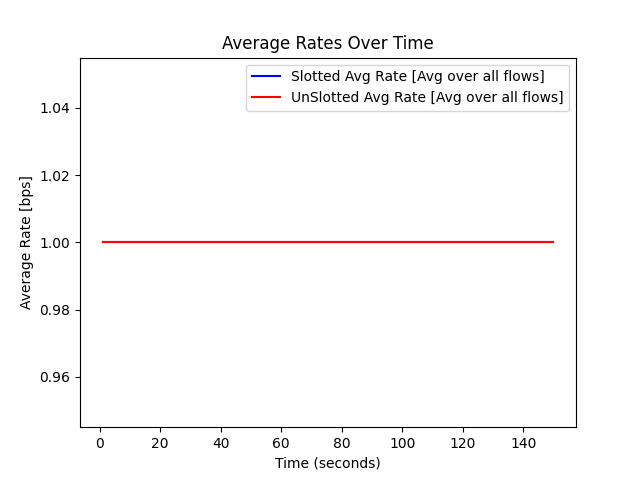
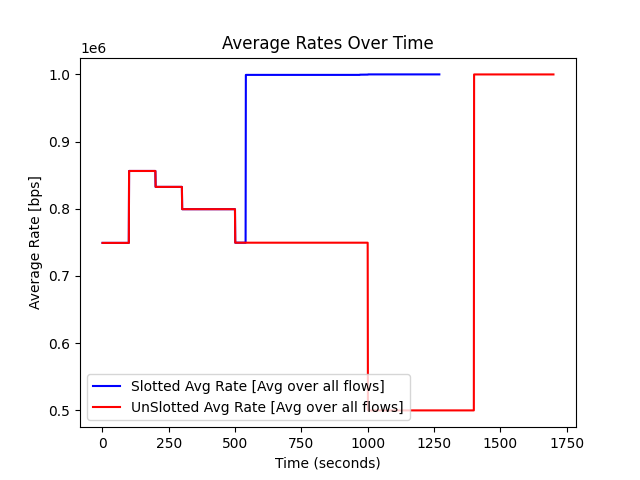
minors

diff --git a/DIAMOND/test/inference_vs_competitors_simple.py b/DIAMOND/test/inference_vs_competitors_simple.py
@@ -27,9 +27,9 @@ if __name__ == "__main__":
 
     # ------------------------------------------------------------------------
     Simulation_Time_Resolution = 1e-1       # miliseconds (i.e. each time step is a milisecond - this is the duration of each time step in [SEC])
-    BW_value_in_Hertz = 1#1e6                   # wanted BW in Hertz
-    slot_duration = 30                     # [SEC] 
-    Tot_num_of_timeslots = 5               # [num of time slots]
+    BW_value_in_Hertz = 1e6                   # wanted BW in Hertz
+    slot_duration = 60                     # [SEC] 
+    Tot_num_of_timeslots = 150               # [num of time slots]
     #------------------------------------------------------------------------
 
     # # number of nodes
@@ -72,9 +72,9 @@ if __name__ == "__main__":
     #      (0.1, 0), (0.1, 0.01), (0.1, 0.02),
     #      (0.2, 0), (0.2, 0.01), (0.2, 0.02)]
    
-    P = [(0, 0), (0, 100), (0, 200),
-         (100, 0), (100, 100), (100, 200),
-         (200, 0), (200, 100), (200, 200)]
+    P = [(0, 0), (0, 10), (0, 20),
+         (10, 0), (10, 10), (10, 20),
+         (20, 0), (20, 10), (20, 20)]
     
     # BW matrix
     C = BW_value_in_Hertz * np.ones((N, N)) * Simulation_Time_Resolution 
@@ -85,19 +85,19 @@ if __name__ == "__main__":
     action_size = 10                      #search space limitaions?
 
     # flow demands in KiloByte
-    F = [
-        {"source": 0, "destination": 8, "packets": 1000    , "time_constrain": 10 , 'flow_idx': 0 }  ]  
-    
     # F = [
-    #     #{"source": 0, "destination": 8, "packets": 1000    *1e6, "time_constrain": 10 , 'flow_idx': 0 }#,
-    #     # {"source": 0, "destination": 7, "packets": 1000    *1e6, "time_constrain": 10, 'flow_idx': 1}#,         #Packets [in Bits]
-    #     # {"source": 0, "destination": 6, "packets": 500  *1e6, "time_constrain": 10, 'flow_idx': 2},         #Packets [in Bits]
-    #     # {"source": 0, "destination": 5, "packets": 1000 *1e6, "time_constrain": 10, 'flow_idx': 3},
-    #     # {"source": 0, "destination": 4, "packets": 700  *1e6, "time_constrain": 10 , 'flow_idx': 4 },
-    #     # {"source": 0, "destination": 3, "packets": 300  *1e6, "time_constrain": 10, 'flow_idx': 5},         #Packets [in Bits]
-    #     # {"source": 0, "destination": 2, "packets": 150  *1e6, "time_constrain": 10, 'flow_idx': 6},         #Packets [in Bits]
-    #     # {"source": 0, "destination": 1, "packets": 50   *1e6, "time_constrain": 10, 'flow_idx': 7}
-    # ]
+    #     {"source": 0, "destination": 8, "packets": 1000    , "time_constrain": 10 , 'flow_idx': 0 }  ]  
+    
+    F = [
+        {"source": 0, "destination": 8, "packets": 1000    *1e6, "time_constrain": 10 , 'flow_idx': 0 },
+        {"source": 0, "destination": 7, "packets": 1000    *1e6, "time_constrain": 10, 'flow_idx': 1},         #Packets [in Bits]
+        {"source": 0, "destination": 6, "packets": 500  *1e6, "time_constrain": 10, 'flow_idx': 2},         #Packets [in Bits]
+        {"source": 0, "destination": 5, "packets": 1000 *1e6, "time_constrain": 10, 'flow_idx': 3},
+        {"source": 0, "destination": 4, "packets": 700  *1e6, "time_constrain": 10 , 'flow_idx': 4 },
+        {"source": 0, "destination": 3, "packets": 300  *1e6, "time_constrain": 10, 'flow_idx': 5},         #Packets [in Bits]
+        {"source": 0, "destination": 2, "packets": 150  *1e6, "time_constrain": 10, 'flow_idx': 6},         #Packets [in Bits]
+        {"source": 0, "destination": 1, "packets": 50   *1e6, "time_constrain": 10, 'flow_idx': 7}
+    ]
 
     slotted_env = SlottedGraphEnvPower( adjacency_matrix=A,
                                         bandwidth_matrix=C,
